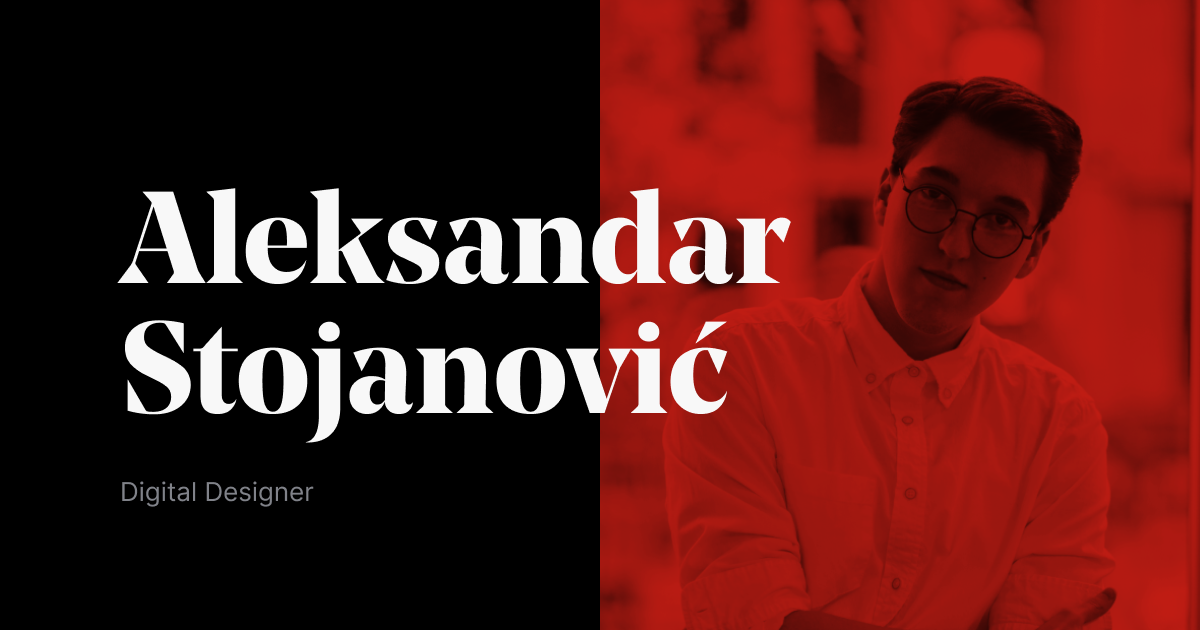
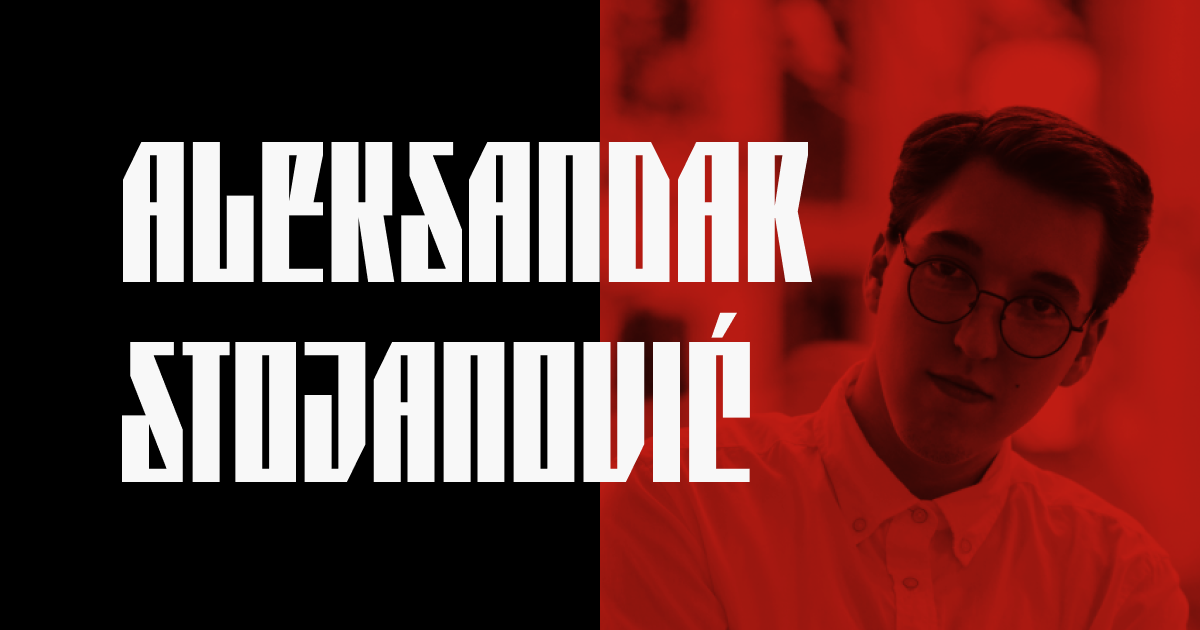
Added new webiste

diff --git a/aslightdesign-NEW/about/index.html b/aslightdesign-NEW/about/index.html
@@ -3,26 +3,21 @@
 
 <head>
     <meta charset="UTF-8">
-    <title>Aleksandar Stojanović</title>
+    <title>About Aleksandar Stojanović</title>
     <meta name="keywords" content="Aleksandar Stojanović, Digital Designer">
     <meta name="format-detection" content="telephone=no,address=no,email=no">
     <meta name="viewport" content="width=device-width,initial-scale=1.0">
     <meta property="og:title" content="Aleksandar Stojanović">
     <meta property="og:type" content="website">
-    <meta property="og:description" content="About Aleksandar Stojanović.">
+    <meta property="og:description" content="About Aleksandar Stojanović">
     <meta property="og:url" content="http://aslightdesign.com">
     <meta property="og:image" content="../resource/img/common/og.png">
     <meta property="og:site_name" content="Aleksandar Stojanović">
     <link rel="canonical" href="../index.html">
     <link rel="shortcut icon" href="../resource/img/common/favicon_32x32.png" sizes="32x32">
-    <!-- <link rel="stylesheet" href="https://use.typekit.net/mvo4ken.css"> -->
     <link rel="stylesheet" href="../resource/css/style_min.css" type="text/css"/>
-
     <link rel="stylesheet" href="../resource/fonts/PAG-Syndicate/stylesheet.css" type="text/css" />
     <link rel="stylesheet" href="../resource/fonts/Helvetica-Compressed/stylesheet.css" type="text/css" />
-
-    <link rel="stylesheet" href="../resource/fonts/NoeDisplay-Bold/stylesheet.css" type="text/css" />
-    <link rel="stylesheet" href="../resource/fonts/NoeDisplay-Regular/style.css" type="text/css" />
     <link rel="stylesheet" href="../resource/fonts/Inter-Regular/stylesheet.css" type="text/css" />
     <link rel="stylesheet" href="../resource/fonts/Inter-Bold/stylesheet.css" type="text/css" />
     <script async src="https://www.googletagmanager.com/gtag/js?id=UA-112735579-1"></script>
@@ -65,7 +60,7 @@
                         <br>
                     <br>Pixel perfection is never a goal, it’s a rule.<br>
                     <p>
-                        <img src="../resource/img/profile/Aleksandar-Stojanovic.jpg">
+                        <img src="../resource/img/profile/Aleksandar_Stojanovic_Digital_Deisnger.png">
                     </p>
                     <br>
                     <p class="txt-small font-small is-hide">AGENCIES</p>
@@ -77,8 +72,6 @@
                     <p class="txt-small font-small is-hide">CAPABILITY</p>
                     <p class="txt-large is-hide">Research, Art Direction, Visual Identity, Web Direction, UI Design, UX Design, Graphic Design, Layout and typography, Wireframing, Low and high fidelity prototyping, Interaction and motion design.
                     </p>
-                    <p class="txt-small font-small is-hide">EMAIL</p>
-                    <p class="txt-large is-hide">aslightdesign@gmail.com</p>
                     <a href="mailto:aslightdesign@gmail.com" class="mail is-hide"><p>Drop an email</p><span></span></a>
                 </div>
                 <!-- <div id="js-bg-type" class="big-type">I want to make beautiful things.</div> -->

diff --git a/aslightdesign-NEW/projects/marbleit/index.html b/aslightdesign-NEW/projects/marbleit/index.html
@@ -15,15 +15,9 @@
     <meta property="og:site_name" content="Aleksandar Stojanović">
     <link rel="canonical" href="../../index.html">
     <link rel="shortcut icon" href="../../resource/img/common/favicon_32x32.png" sizes="32x32">
-    <!-- <link rel="stylesheet" href="https://use.typekit.net/mvo4ken.css"> -->
-    <link rel="stylesheet" href="../../resource/css/style_min.css" type="text/css" />
-
-
     <link rel="stylesheet" href="../../resource/fonts/PAG-Syndicate/stylesheet.css" type="text/css" />
     <link rel="stylesheet" href="../../resource/fonts/Helvetica-Compressed/stylesheet.css" type="text/css" />
-
-    <link rel="stylesheet" href="../../resource/fonts/NoeDisplay-Bold/stylesheet.css" type="text/css" />
-    <link rel="stylesheet" href="../../resource/fonts/NoeDisplay-Regular/style.css" type="text/css" />
+    <link rel="stylesheet" href="../../resource/css/style_min.css" type="text/css" />
     <link rel="stylesheet" href="../../resource/fonts/Inter-Regular/stylesheet.css" type="text/css" />
     <link rel="stylesheet" href="../../resource/fonts/Inter-Bold/stylesheet.css" type="text/css" />
     <script async src="https://www.googletagmanager.com/gtag/js?id=UA-112735579-1"></script>

diff --git a/aslightdesign-NEW/projects/lissa/index.html b/aslightdesign-NEW/projects/lissa/index.html
@@ -15,13 +15,9 @@
     <meta property="og:site_name" content="Aleksandar Stojanović">
     <link rel="canonical" href="../../index.html">
     <link rel="shortcut icon" href="../../resource/img/common/favicon_32x32.png" sizes="32x32">
-    <!-- <link rel="stylesheet" href="https://use.typekit.net/mvo4ken.css"> -->
     <link rel="stylesheet" href="../../resource/fonts/PAG-Syndicate/stylesheet.css" type="text/css" />
     <link rel="stylesheet" href="../../resource/fonts/Helvetica-Compressed/stylesheet.css" type="text/css" />
-
-     <link rel="stylesheet" href="../../resource/css/style_min.css" type="text/css" />
-    <link rel="stylesheet" href="../../resource/fonts/NoeDisplay-Bold/stylesheet.css" type="text/css" />
-    <link rel="stylesheet" href="../../resource/fonts/NoeDisplay-Regular/style.css" type="text/css" />
+    <link rel="stylesheet" href="../../resource/css/style_min.css" type="text/css" />
     <link rel="stylesheet" href="../../resource/fonts/Inter-Regular/stylesheet.css" type="text/css" />
     <link rel="stylesheet" href="../../resource/fonts/Inter-Bold/stylesheet.css" type="text/css" />
     <script async src="https://www.googletagmanager.com/gtag/js?id=UA-112735579-1"></script>

diff --git a/aslightdesign-NEW/projects/cimet/index.html b/aslightdesign-NEW/projects/cimet/index.html
@@ -15,13 +15,9 @@
     <meta property="og:site_name" content="Aleksandar Stojanović">
     <link rel="canonical" href="../../index.html">
     <link rel="shortcut icon" href="../../resource/img/common/favicon_32x32.png" sizes="32x32">
-    <!-- <link rel="stylesheet" href="https://use.typekit.net/mvo4ken.css"> -->
     <link rel="stylesheet" href="../../resource/fonts/PAG-Syndicate/stylesheet.css" type="text/css" />
     <link rel="stylesheet" href="../../resource/fonts/Helvetica-Compressed/stylesheet.css" type="text/css" />
-
     <link rel="stylesheet" href="../../resource/css/style_min.css" type="text/css" />
-    <link rel="stylesheet" href="../../resource/fonts/NoeDisplay-Bold/stylesheet.css" type="text/css" />
-    <link rel="stylesheet" href="../../resource/fonts/NoeDisplay-Regular/style.css" type="text/css" />
     <link rel="stylesheet" href="../../resource/fonts/Inter-Regular/stylesheet.css" type="text/css" />
     <link rel="stylesheet" href="../../resource/fonts/Inter-Bold/stylesheet.css" type="text/css" />
     <script async src="https://www.googletagmanager.com/gtag/js?id=UA-112735579-1"></script>

diff --git a/aslightdesign-NEW/projects/der-haai-app/index.html b/aslightdesign-NEW/projects/der-haai-app/index.html
@@ -15,13 +15,9 @@
     <meta property="og:site_name" content="Aleksandar Stojanović">
     <link rel="canonical" href="../../index.html">
     <link rel="shortcut icon" href="../../resource/img/common/favicon_32x32.png" sizes="32x32">
-    <!-- <link rel="stylesheet" href="https://use.typekit.net/mvo4ken.css"> -->
     <link rel="stylesheet" href="../../resource/fonts/PAG-Syndicate/stylesheet.css" type="text/css" />
     <link rel="stylesheet" href="../../resource/fonts/Helvetica-Compressed/stylesheet.css" type="text/css" />
-
     <link rel="stylesheet" href="../../resource/css/style_min.css" type="text/css" />
-    <link rel="stylesheet" href="../../resource/fonts/NoeDisplay-Bold/stylesheet.css" type="text/css" />
-    <link rel="stylesheet" href="../../resource/fonts/NoeDisplay-Regular/style.css" type="text/css" />
     <link rel="stylesheet" href="../../resource/fonts/Inter-Regular/stylesheet.css" type="text/css" />
     <link rel="stylesheet" href="../../resource/fonts/Inter-Bold/stylesheet.css" type="text/css" />
     <script async src="https://www.googletagmanager.com/gtag/js?id=UA-112735579-1"></script>

diff --git a/aslightdesign-NEW/projects/designer-quotes/index.html b/aslightdesign-NEW/projects/designer-quotes/index.html
@@ -15,13 +15,9 @@
     <meta property="og:site_name" content="Aleksandar Stojanović">
     <link rel="canonical" href="../../index.html">
     <link rel="shortcut icon" href="../../resource/img/common/favicon_32x32.png" sizes="32x32">
-    <!-- <link rel="stylesheet" href="https://use.typekit.net/mvo4ken.css"> -->
     <link rel="stylesheet" href="../../resource/fonts/PAG-Syndicate/stylesheet.css" type="text/css" />
     <link rel="stylesheet" href="../../resource/fonts/Helvetica-Compressed/stylesheet.css" type="text/css" />
-
     <link rel="stylesheet" href="../../resource/css/style_min.css" type="text/css" />
-    <link rel="stylesheet" href="../../resource/fonts/NoeDisplay-Bold/stylesheet.css" type="text/css" />
-    <link rel="stylesheet" href="../../resource/fonts/NoeDisplay-Regular/style.css" type="text/css" />
     <link rel="stylesheet" href="../../resource/fonts/Inter-Regular/stylesheet.css" type="text/css" />
     <link rel="stylesheet" href="../../resource/fonts/Inter-Bold/stylesheet.css" type="text/css" />
     <script async src="https://www.googletagmanager.com/gtag/js?id=UA-112735579-1"></script>

diff --git a/aslightdesign-NEW/projects/feuerwhr/index.html b/aslightdesign-NEW/projects/feuerwhr/index.html
@@ -15,13 +15,9 @@
     <meta property="og:site_name" content="Aleksandar Stojanović">
     <link rel="canonical" href="../../index.html">
     <link rel="shortcut icon" href="../../resource/img/common/favicon_32x32.png" sizes="32x32">
-    <!-- <link rel="stylesheet" href="https://use.typekit.net/mvo4ken.css"> -->
     <link rel="stylesheet" href="../../resource/fonts/PAG-Syndicate/stylesheet.css" type="text/css" />
     <link rel="stylesheet" href="../../resource/fonts/Helvetica-Compressed/stylesheet.css" type="text/css" />
-
     <link rel="stylesheet" href="../../resource/css/style_min.css" type="text/css" />
-    <link rel="stylesheet" href="../../resource/fonts/NoeDisplay-Bold/stylesheet.css" type="text/css" />
-    <link rel="stylesheet" href="../../resource/fonts/NoeDisplay-Regular/style.css" type="text/css" />
     <link rel="stylesheet" href="../../resource/fonts/Inter-Regular/stylesheet.css" type="text/css" />
     <link rel="stylesheet" href="../../resource/fonts/Inter-Bold/stylesheet.css" type="text/css" />
     <script async src="https://www.googletagmanager.com/gtag/js?id=UA-112735579-1"></script>

diff --git a/aslightdesign-NEW/index.html b/aslightdesign-NEW/index.html
@@ -15,14 +15,10 @@
     <meta property="og:site_name" content="Aleksandar Stojanović">
     <link rel="canonical" href="index.html">
     <link rel="shortcut icon" href="resource/img/common/favicon_32x32.png" sizes="32x32">
-    <!-- <link rel="stylesheet" href="https://use.typekit.net/mvo4ken.css"> -->
     <link rel="stylesheet" href="resource/css/style_min.css" type="text/css" />
 
     <link rel="stylesheet" href="resource/fonts/PAG-Syndicate/stylesheet.css" type="text/css" />
     <link rel="stylesheet" href="resource/fonts/Helvetica-Compressed/stylesheet.css" type="text/css" />
-    
-    <link rel="stylesheet" href="resource/fonts/NoeDisplay-Bold/stylesheet.css" type="text/css" />
-    <link rel="stylesheet" href="resource/fonts/NoeDisplay-Regular/style.css" type="text/css" />
     <link rel="stylesheet" href="resource/fonts/Inter-Regular/stylesheet.css" type="text/css" />
     <link rel="stylesheet" href="resource/fonts/Inter-Bold/stylesheet.css" type="text/css" />
     <script async src="https://www.googletagmanager.com/gtag/js?id=UA-112735579-1"></script>

diff --git a/aslightdesign-NEW/resource/css/style_min.css b/aslightdesign-NEW/resource/css/style_min.css
@@ -360,7 +360,7 @@ body {
 }
 
 #fv h2 {
-    font-family: 'Noe Display Regular';
+    font-family: 'Helvetica-Compressed';
     position: relative;
     float: left;
     overflow: hidden;
@@ -1584,10 +1584,10 @@ body {
         display: none;
     }
     #fv .profile .txt00 {
-        font-family: 'Noe Display';
+        font-family: 'PAG';
         text-align: center;
-        font-size: 16rem;
-        font-weight: 600;
+        font-size: 20rem;
+        font-weight: 100;
         line-height: 1.2;
         margin-top: 30%;
         margin-bottom: 20%;
@@ -1599,9 +1599,9 @@ body {
 @media screen and (max-width:1024px) { /* iPad Pro vertical */
 
     #fv .profile .txt00 {
-        font-family: 'Helvetica-Compressed';
+        font-family: 'PAG';
         text-align: center;
-        font-size: 10rem;
+        font-size: 16rem;
         font-weight: 100;
         line-height: 1.2;
         margin-top: 30%;
